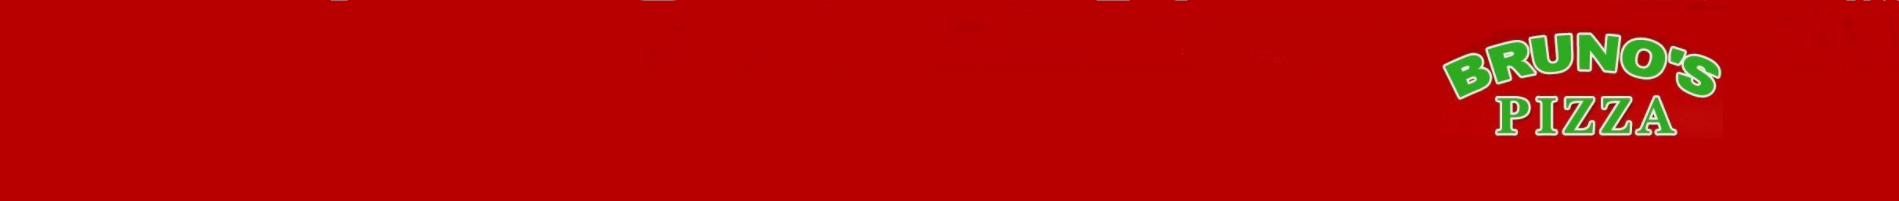
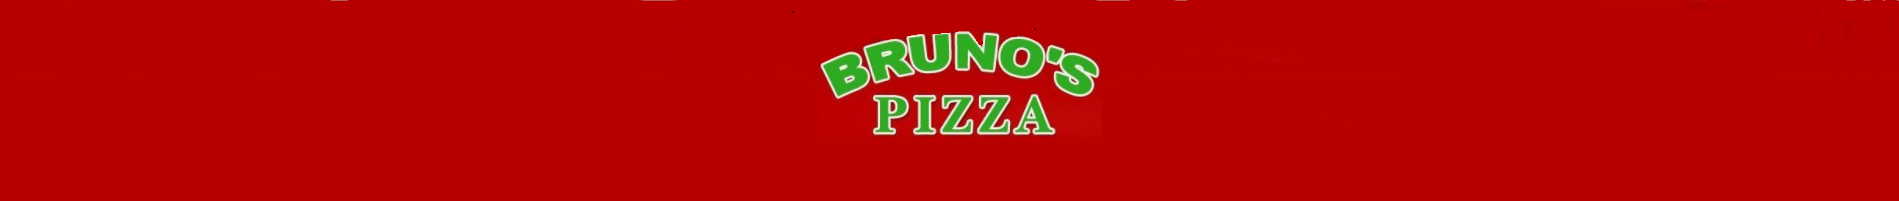
Added a basic Nav bar, going to restyle and add more pages

Changed region(s): [[0.7457, 0.1493, 0.9321, 0.6866], [0.435, 0.1493, 0.5903, 0.6866]]

diff --git a/index.html b/index.html
@@ -17,7 +17,11 @@
 <body>
 
   <header>
-
+    <div class="topnav" id="topnav">
+      <a class="active" href="#home">Home</a>
+      <a href="#about"> About </a>
+    </div>
+    <div class="header"></div>
   </header>
 
 
@@ -54,6 +58,9 @@
               <p>Check out our complete menu! We have a variaty of options not just pizzas! We have fish and chips, salads and much, much more! Click on the photo to download the menu!</p>
             </div>
           </div>
+        </div>
+        <div class="center">
+          <p>The food we serve is not gluten-free but our friendly and accommodating staff can take care of all your allergy requests.</p>
         </div>
       </div>
     </div>
@@ -94,11 +101,14 @@
   </section>
 
 <footer>
-  <div class="container">
-    <p>© 2016 Brunos Pizza.</p>
-    <div>
-      <p>Images from unsplash.com</p>
+  <div class="footer">
+    <div class="container">
+      <p>© 2016 Brunos Pizza.</p>
+      <div>
+        <p>Images from unsplash.com</p>
+      </div>
     </div>
+
   </div>
 </footer>
 

diff --git a/css/styles.css b/css/styles.css
@@ -1,12 +1,13 @@
 .textCenter {
     text-align: center;
+    padding-bottom: 30px;
 }
 
-header {
+.header {
     height: 500px;
     background-image: url("../img/banner.PNG");
     background-size: cover;
-    background-position: right;
+    background-position: center;
     padding-top: 150px;
 }
 
@@ -69,11 +70,41 @@ a:hover {
     padding-left: 10px;
 }
 
-footer {
+.center{
+    text-align: center;
+    
+}
+
+.footer {
     background-color: #391D18;
     padding: 15px;
     height: 350px;
     margin-bottom: 0px;
     color: #EEEEEE;
     padding: 50px;
+}
+
+.topnav {
+    background-color: black;
+    overflow: hidden;
+}
+
+.topnav a {
+    text-align: center;
+    color: white;
+    text-decoration: none;
+    padding: 14px 16px;
+    font-size: 30px;
+}
+
+.topnav a:hover {
+    background-color: #DFDFDF;
+    color: black;
+
+}
+
+.topnav a.active {
+    background-color: #4caf50;
+    color: white;
+
 }
